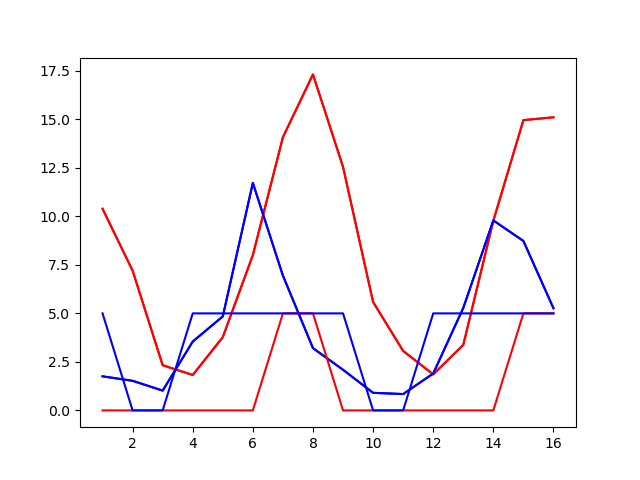
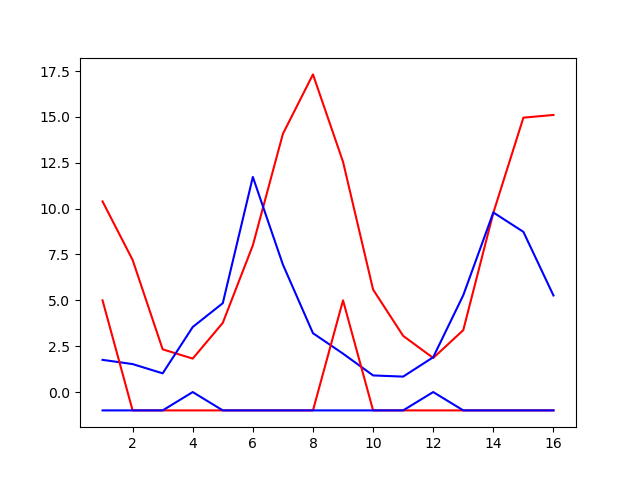
Visualizing data for the first time (for real)

diff --git a/SimpleCryPerTest2.py b/SimpleCryPerTest2.py
@@ -52,9 +52,6 @@ data[Cry] = cry1
 data[Per] = per1
 
 time = range(1,17)
-plt.plot(time,cry1,c="r")
-plt.plot(time,per1,c="b")
-plt.savefig("pts_graphs.png")
 
 #print("models : ", models[100000])
 
@@ -100,6 +97,7 @@ a_model = all_models[visIndex]
 print(a_model.parameters)
 
 time = range(1,17)
+
 plt.plot(time,cry1,c="r")
 plt.plot(time,per1,c="b")
 
@@ -107,14 +105,26 @@ cry_act = []
 per_act = []
 thres_cry = a_model.parameters[Cry]
 thres_per = a_model.parameters[Per]
+signal_from_cry = a_model.parameters[Cry_Per]
+signal_from_per = a_model.parameters[Per_Cry]
 
 for i in range(len(time)):
-    cry_act.append(0)
-    per_act.append(0)
-    if cry1[i] >= thres_cry:
-        cry_act[i] = 5
-    if per1[i] >= thres_per:
-        per_act[i] = 5
+    cry_act.append(-1)
+    per_act.append(-1)
+cry_act[0] = 5
+cry_act[0] = 5
+
+for j in range(len(time)):
+    for i in range(len(time)):
+        if cry_act[i] == 5:
+            per_act[(i+signal_from_cry)%16] = 0
+        elif cry_act[i] == 0:
+            per_act[(i+signal_from_cry)%16] = 5
+        if per_act[i] == 5:
+            cry_act[(i+signal_from_per)%16] = 0
+        elif per_act[i] == 0:
+            cry_act[(i+signal_from_per)%16] = 5
+    
 
 plt.plot(time,cry_act,c="r")
 plt.plot(time,per_act,c="b")
